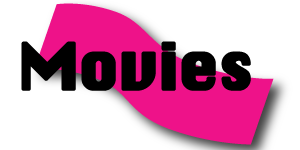
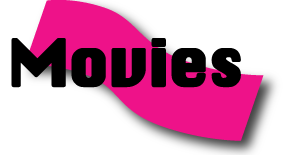
movies styling done. Drop-down added to comments

Changed region(s): [[0.03, 0.0, 0.96, 1.0]]

diff --git a/valley_girl_app/app/assets/stylesheets/main.css b/valley_girl_app/app/assets/stylesheets/main.css
@@ -6,19 +6,29 @@
   color: black;
 }
 
+html {
+  margin: 0;
+  padding: 0;
+}
 /*////////////LANDING PAGE/////////////////*/
 .links-container {
   float: right;
-  width: 95%;
+  margin-top: -4em;
+  width: 100%;
 }
 
 .link {
   display: inline-block;
+  width: 20%;
+  margin: 1em;
 }
 
+#landing-page-header {
+  text-align: center;
+  margin-top: -2em;
+}
 
 #totally_valley_logo {
-  margin-left: 26em;
   width: 35%;
 }
 
@@ -36,6 +46,10 @@ h2 {
 
 h3 {
   font-size: 2em;
+}
+
+h4 {
+  font-size: 1.5em;
 }
 
 body {
@@ -71,6 +85,10 @@ body {
     transform: scale(1.1);
 }
 
+footer {
+  margin-top: -2em;
+}
+
 /*////////////SOUND BUTTONS ON LANDING PAGE///////////////*/
 
 button {
@@ -93,20 +111,20 @@ button:hover {
 
 #wow-sound {
   float: left;
-  margin-left: 6em;
+  margin-left: 4em;
   margin-top: -7.5em;
 }
 
 #popular-sound {
   float: right;
-  margin-right: 5em;
+  margin-right: 4em;
   margin-top: -4em;
 }
 
 #fer-sure-sound {
   float: right;
-  margin-right: 7em;
-  margin-top: -8em;
+  margin-right: 6em;
+  margin-top: -7em;
 }
 
 /*//////////////MOVIE & SONGS INDEX PAGES///////////////////*/
@@ -118,7 +136,7 @@ button:hover {
   opacity: 0.6;
   float: right;
   padding: 3.5em;
-  margin-top: -32em;
+  margin-top: -27em;
   margin-right: 3em;
 }
 
@@ -154,19 +172,71 @@ button:hover {
   box-shadow: 20px 20px 10px #888888;
 }
 
+#info-container {
+  width: 50%;
+  background-color: #ffffff;
+  border: 1px solid black;
+  border-radius: 4px;
+  opacity: 0.6;
+  float: right;
+  padding: 1em 2em;
+  margin-right: 2em;
+}
+
+#comments-container {
+  float:right;
+  margin-right: 5em;
+}
+
 textarea {
-  width: 30%;
-  height: 10em;
+/*  width: 100%;*/
+  height: 2em;
   border-radius: 4px;
   box-shadow: 20px 20px 10px #888888;
   padding: 1em;
   font-size: 1em;
 }  
 
+/* Dropdown Button */
+.dropbtn {
+    background-color: white;
+    color: black;
+    font-size: 1.5em;
+    border: none;
+    cursor: pointer;
+    padding: 0;
+    margin: 0;
+}
+
+/* The container <div> - needed to position the dropdown content */
+.dropdown {
+    position: relative;
+    display: inline-block;
+}
+
+/* Dropdown Content (Hidden by Default) */
+.dropdown-content {
+    display: none;
+    position: absolute;
+    background-color: #f9f9f9;
+    min-width: 160px;
+    box-shadow: 0px 8px 16px 0px rgba(0,0,0,0.2);
+}
+
+
+/* Change color of dropdown links on hover */
+.dropdown-content a:hover {background-color: #f1f1f1}
+
+/* Show the dropdown menu on hover */
+.dropdown:hover .dropdown-content {
+    display: block;
+}
+
 /*/////////////CREATE NEW PAGES DISPLAY///////////////*/
 
-#add-movie-title {
+#page-title {
   text-align:center;
+  margin-top: -2em;
 }
 
 .form {
@@ -178,7 +248,7 @@ textarea {
   opacity: 0.6;
   padding: 2em;
   margin-top:1em;
-  margin-left:15em;
+  margin-left:12em;
   font-weight: bold;
   font-size: 1.5em;
 }
